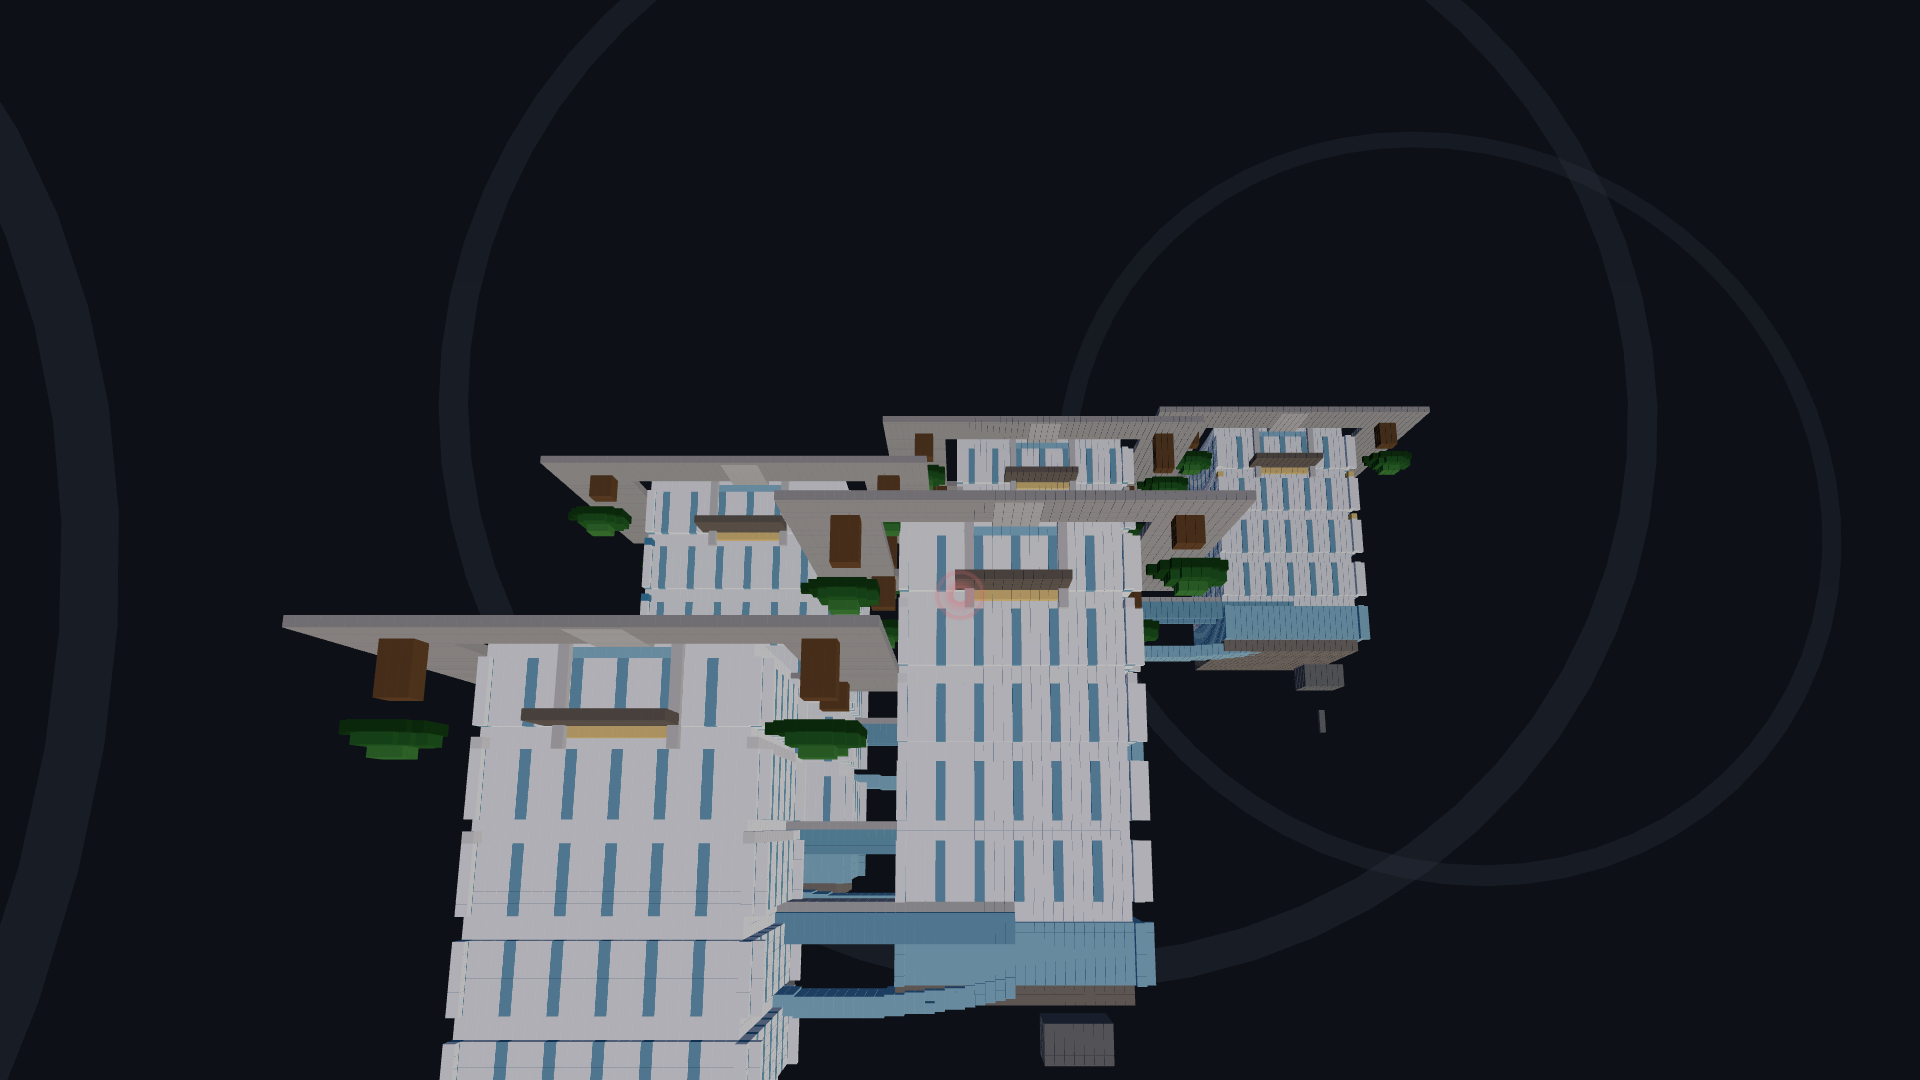
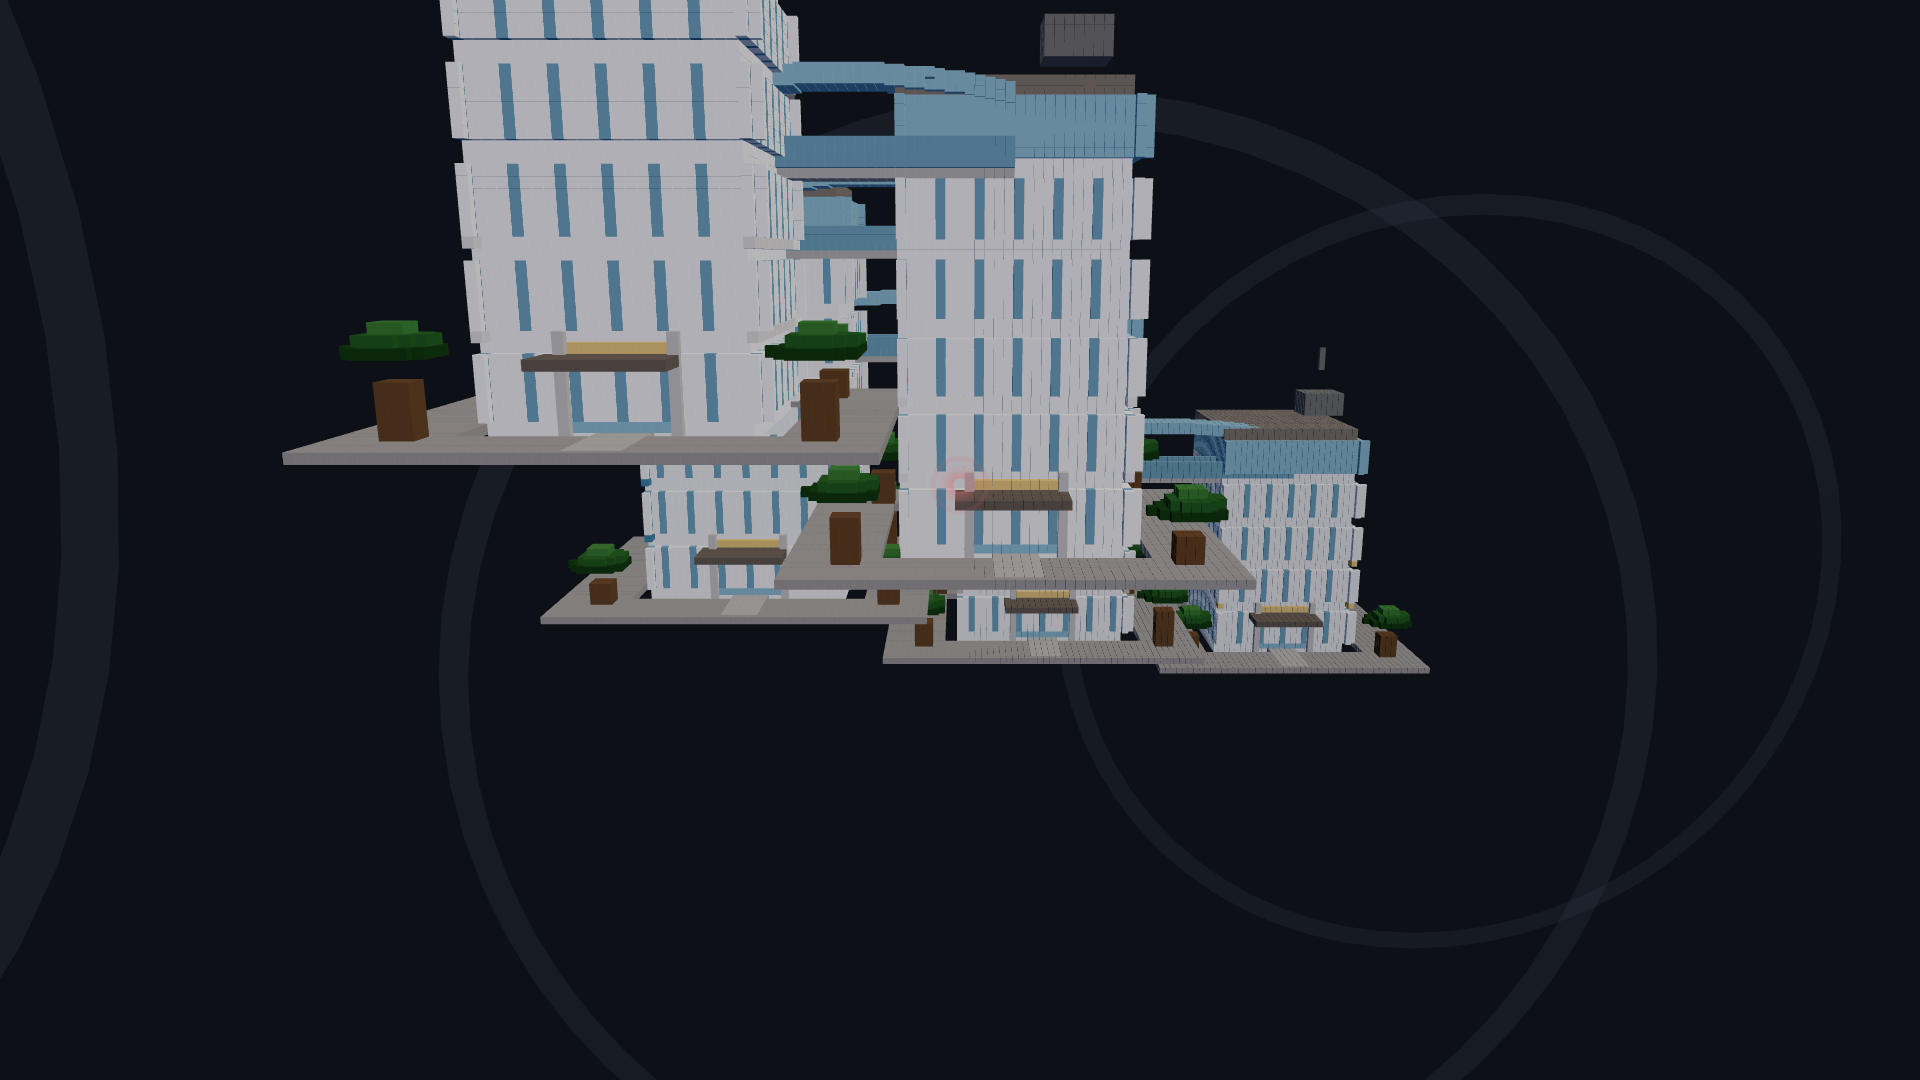
Fix: flip all screenshots except track
SwiftShader flips WebGL for elevated cameras (all except track at Z=15).
Track renders correctly without flip.

diff --git a/scripts/screenshots.py b/scripts/screenshots.py
@@ -5,6 +5,7 @@ Usage: python3 scripts/screenshots.py
 import asyncio
 import os
 from pathlib import Path
+from PIL import Image, ImageOps
 from playwright.async_api import async_playwright
 
 ROOT = Path(__file__).resolve().parent.parent
@@ -96,6 +97,13 @@ async def capture():
 
                 out_path = SCREENSHOTS_DIR / f"{name}.png"
                 await page.screenshot(path=str(out_path), timeout=60000)
+
+                # SwiftShader flips WebGL output for elevated cameras.
+                # Only the track (camera at ground level Z=15) renders correctly.
+                if landmark != "track":
+                    img = Image.open(out_path)
+                    img = ImageOps.flip(img)
+                    img.save(out_path)
 
                 size_kb = os.path.getsize(out_path) / 1024
                 print(f"  ✅ Saved: {out_path.name} ({size_kb:.0f} KB)")
